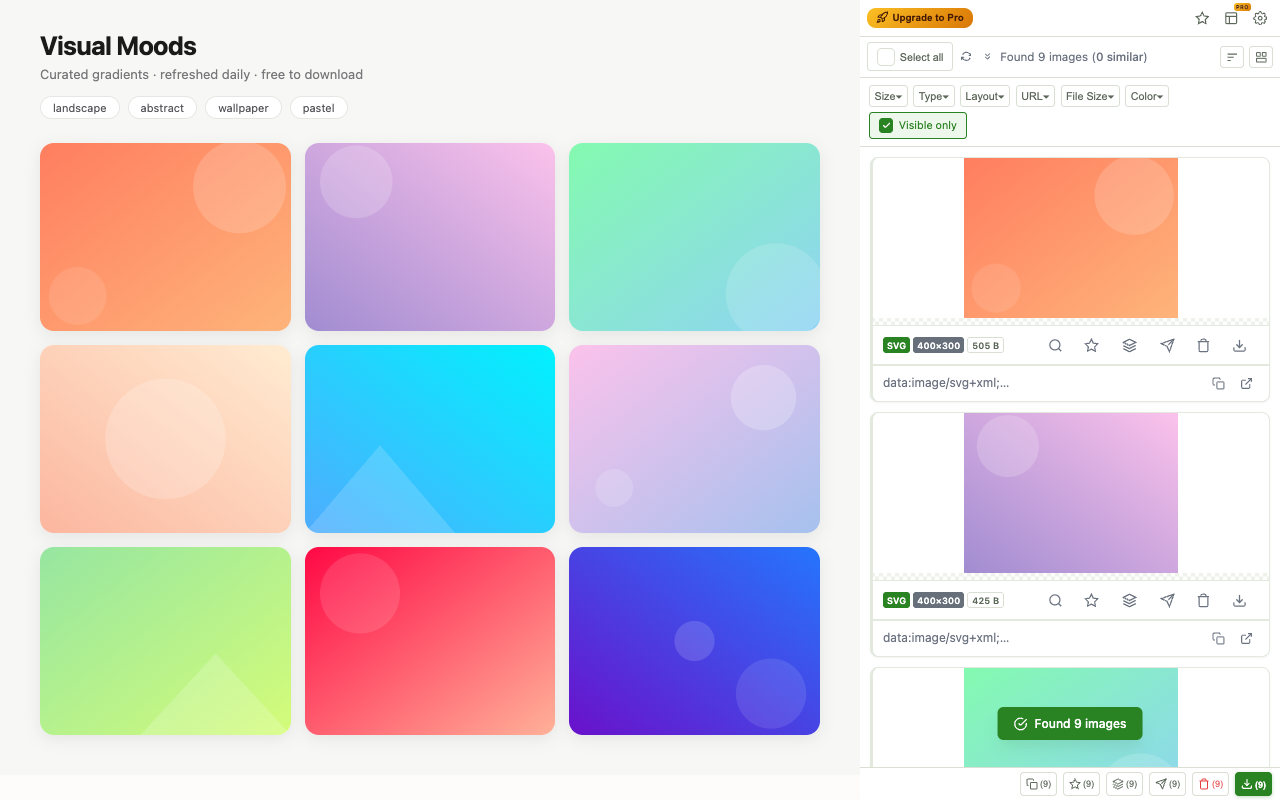
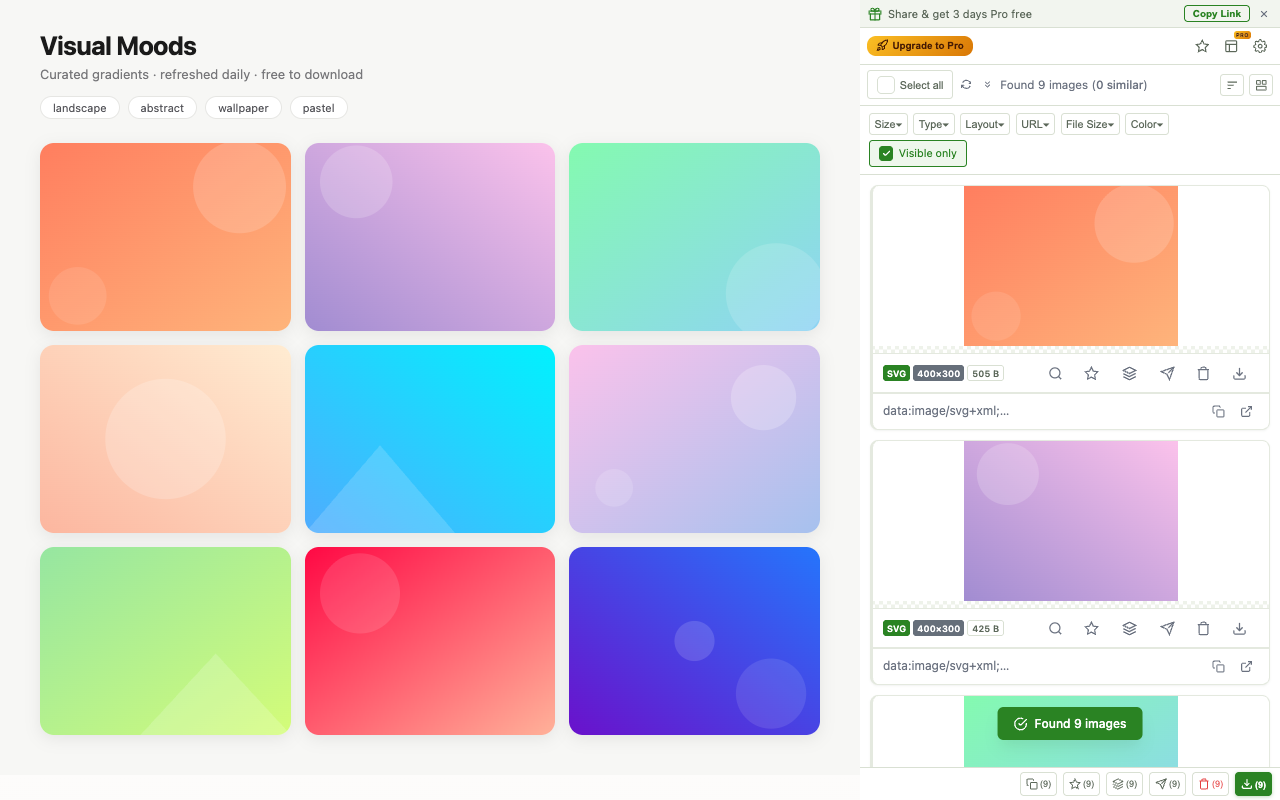
assets: full 13-state store screenshot set (1280x800) — every feature one shot, current v1.2.0 UI
Regenerated via e2e infrastructure against store-demo fixture (free-tier +
Pro sessions + popup seed). Replaces the two May-era screenshots; README
tables now showcase sidepanel/popup/filters/AI tags/dedup/deep scan.

diff --git a/README.md b/README.md
@@ -263,9 +263,11 @@ To install in Chrome: `chrome://extensions/` → Developer mode → **Load unpac
 
 ## 📸 Screenshots
 
-|                 Side Panel Mode                 |               Popup Mode               |
-| :---------------------------------------------: | :------------------------------------: |
-| ![Side Panel](assets/screenshots/sidepanel.png) | ![Popup](assets/screenshots/popup.png) |
+|                   Side Panel Mode                    |                     Popup Mode                     |
+| :--------------------------------------------------: | :------------------------------------------------: |
+| ![Side Panel](assets/screenshots/sidepanel-1280.png) |    ![Popup](assets/screenshots/popup-1280.png)     |
+|   ![Filters](assets/screenshots/filters-1280.png)    |  ![AI Tags](assets/screenshots/ai-tags-1280.png)   |
+| ![Similar Dedup](assets/screenshots/dedup-1280.png)  | ![Deep Scan](assets/screenshots/deepscan-1280.png) |
 
 > Screenshots may be added/updated post-launch. See `assets/screenshots/` for the latest assets.
 

diff --git a/README.zh-CN.md b/README.zh-CN.md
@@ -167,9 +167,11 @@
 
 ## 📸 截图
 
-|                   侧边栏模式                    |                弹窗模式                |
-| :---------------------------------------------: | :------------------------------------: |
-| ![Side Panel](assets/screenshots/sidepanel.png) | ![Popup](assets/screenshots/popup.png) |
+|                      侧边栏模式                      |                      弹窗模式                      |
+| :--------------------------------------------------: | :------------------------------------------------: |
+| ![Side Panel](assets/screenshots/sidepanel-1280.png) |    ![Popup](assets/screenshots/popup-1280.png)     |
+|   ![Filters](assets/screenshots/filters-1280.png)    |  ![AI Tags](assets/screenshots/ai-tags-1280.png)   |
+|     ![Dedup](assets/screenshots/dedup-1280.png)      | ![Deep Scan](assets/screenshots/deepscan-1280.png) |
 
 > 上线后截图可能持续更新，最新截图见 `assets/screenshots/` 目录。
 
